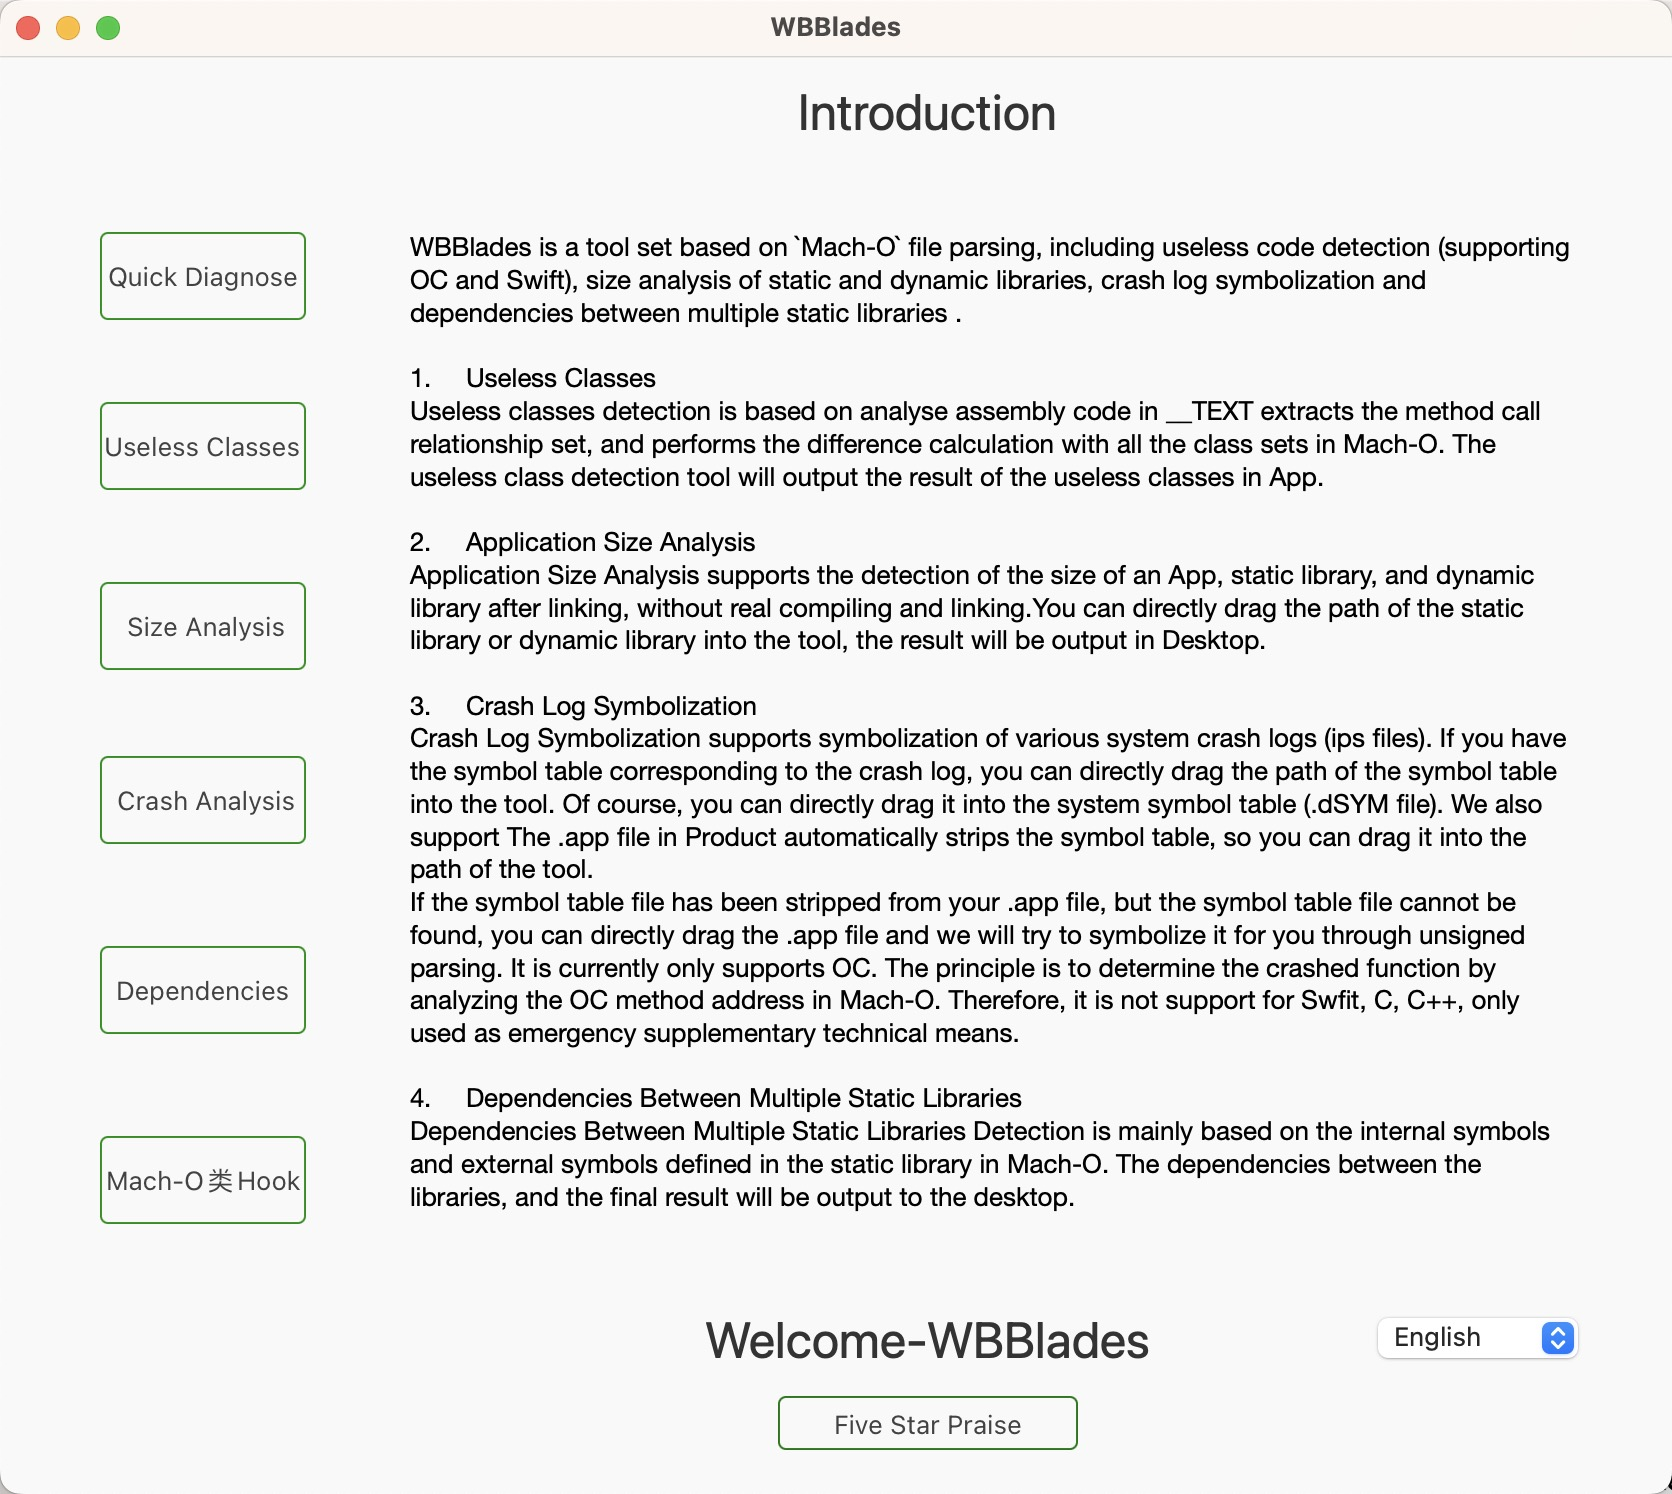
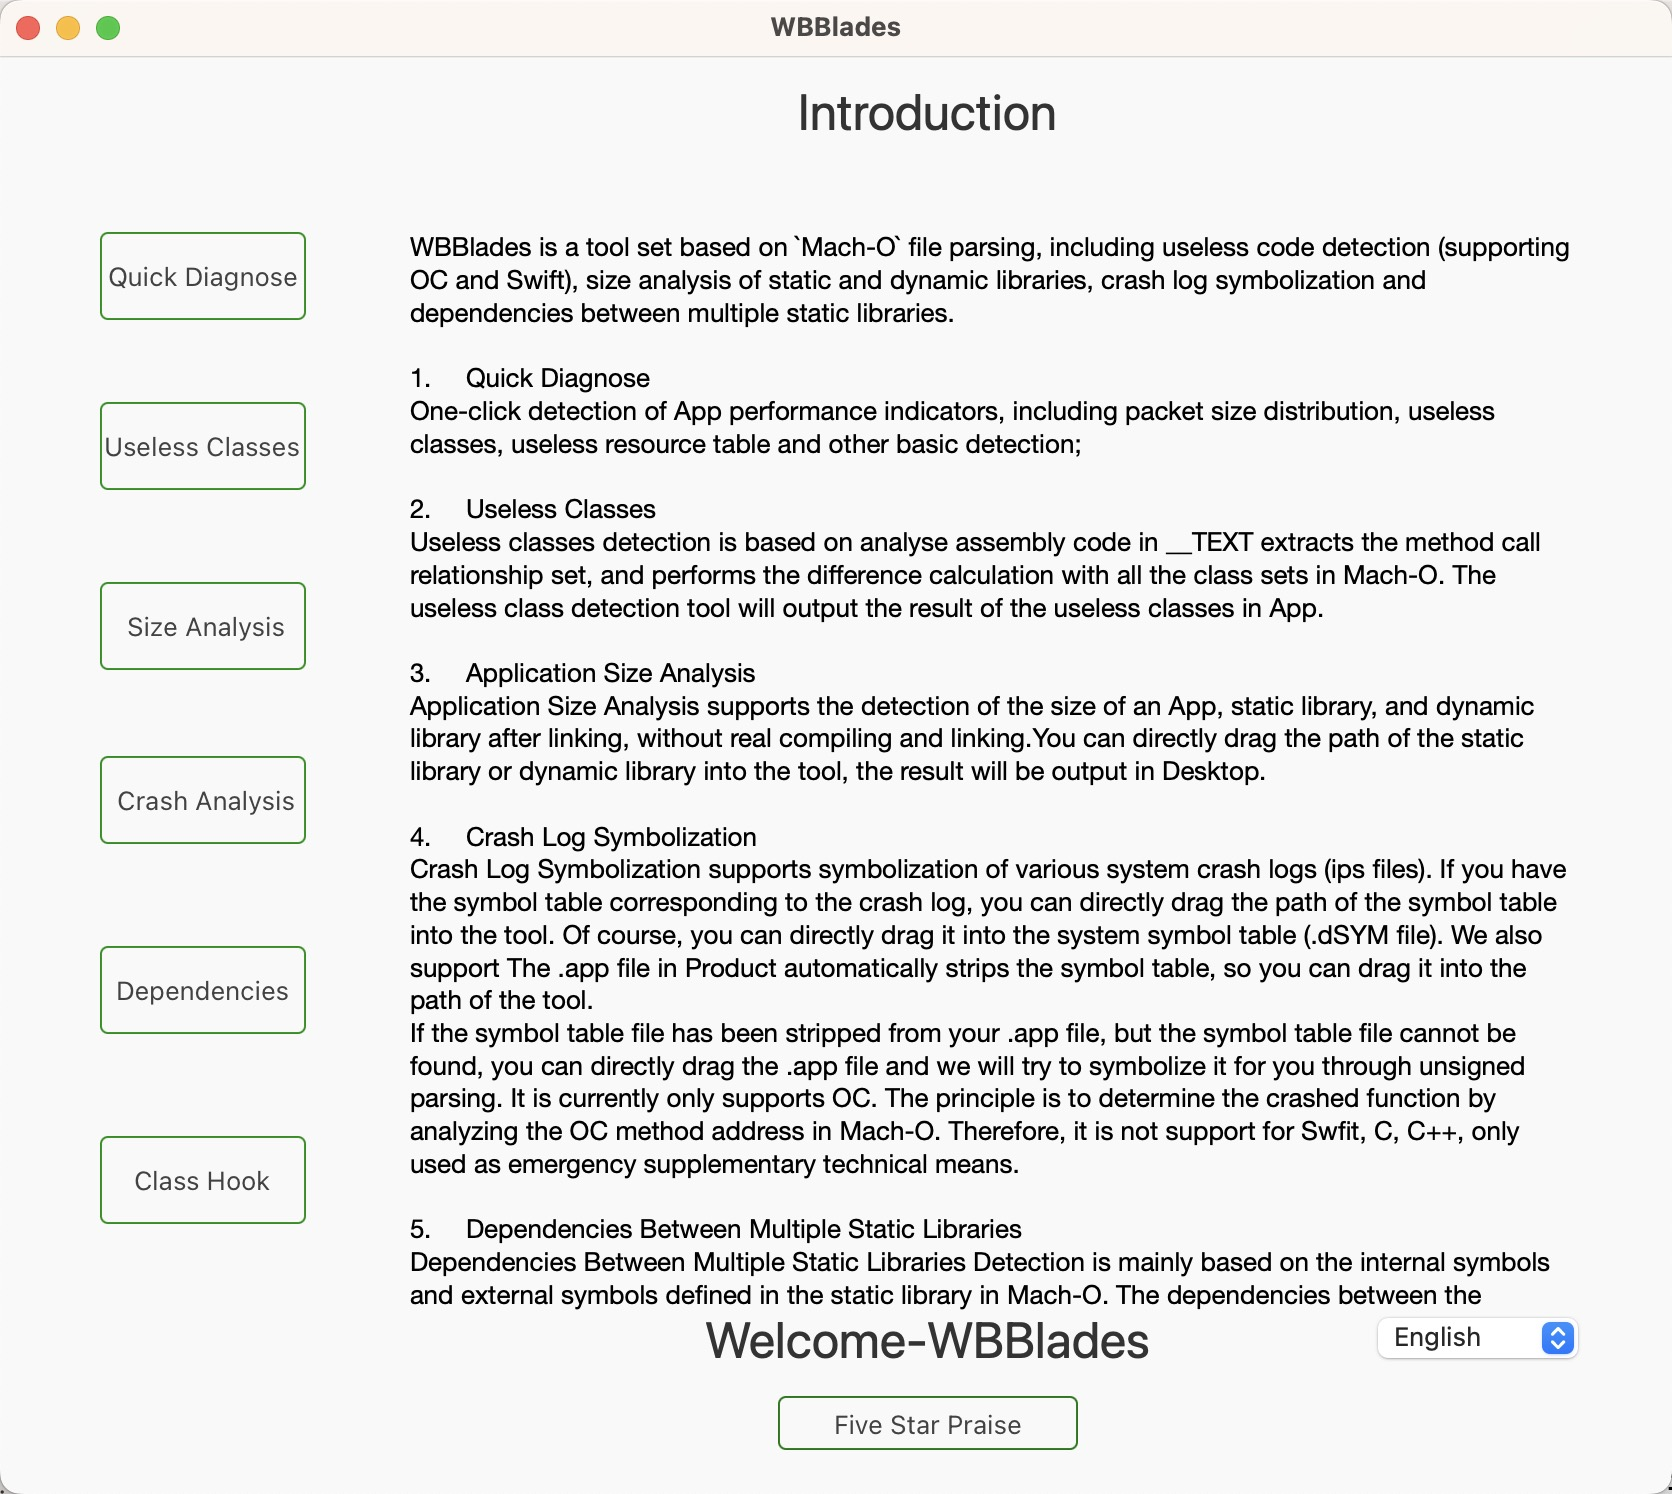
修改UI文案

Changed region(s): [[0.2488, 0.2463, 0.933, 0.8929], [0.0622, 0.7697, 0.1866, 0.8005], [0.9952, 0.9853, 1.0, 1.0]]

diff --git a/WBBladesCrashApp/BladesDispatchViewController.swift b/WBBladesCrashApp/BladesDispatchViewController.swift
@@ -20,6 +20,7 @@ class BladesDispatchViewController: NSViewController {
     @IBOutlet weak var languageChangeBtn: NSPopUpButton!
     @IBOutlet weak var diagnoseBtn: SYFlatButton!
     @IBOutlet weak var cleanCacheBtn: SYFlatButton!
+    @IBOutlet weak var classHookBtn: SYFlatButton!
     var imageView: NSImageView?
     var backGroundView: NSView?
     override func viewDidLoad() {
@@ -30,6 +31,7 @@ class BladesDispatchViewController: NSViewController {
         unusedClassBtn.title = TextDictionary.valueForKey(key: "unusedClassBtnTitle")
         libarySizeBtn.title = TextDictionary.valueForKey(key: "libarySizeBtnTitle")
         crashParseBtn.title = TextDictionary.valueForKey(key: "crashParseBtnTitle")
+        classHookBtn.title = TextDictionary.valueForKey(key: "classHookBtnTitle")
         libarayDependency.title = TextDictionary.valueForKey(key: "libarayDependencyTitle")
         functionLabel.stringValue = TextDictionary.valueForKey(key: "functionLabelTitle")
         introduceTextView.string = TextDictionary.valueForKey(key: "introduceTextViewTitle")
